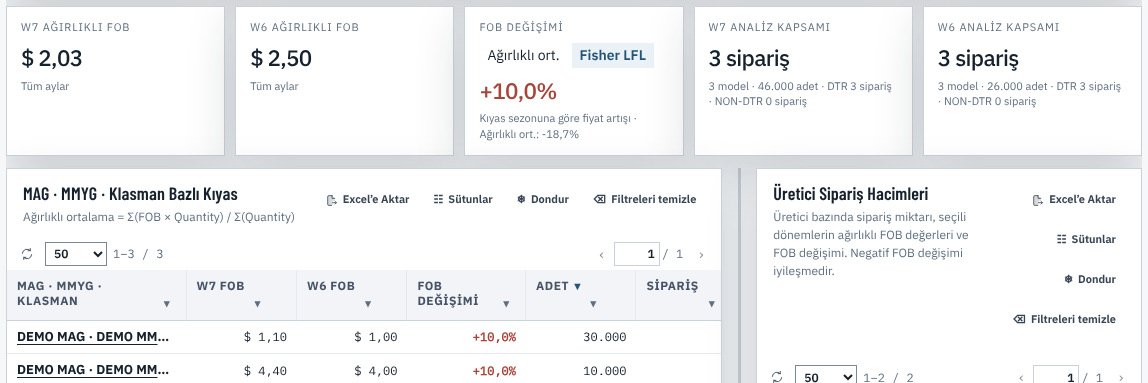
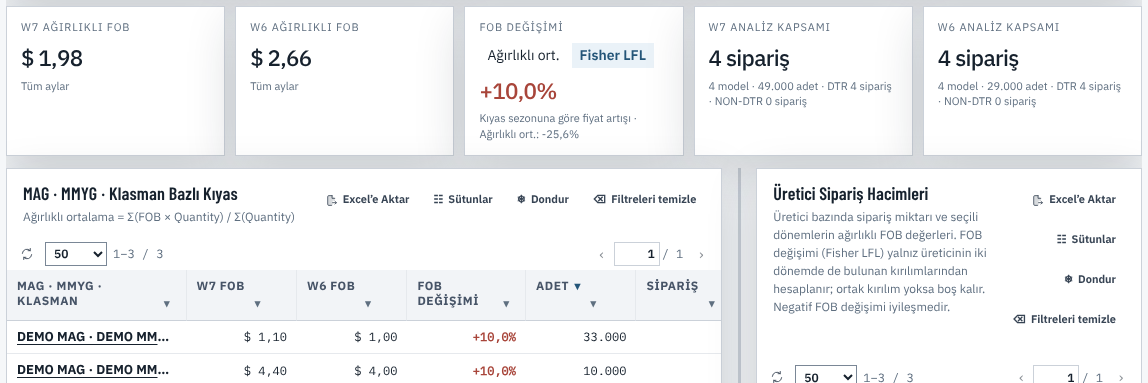
LFL: varsayılan Fisher LFL, like-for-like üretici kıyası, LCW AI hizalaması
- FOB Değişimi varsayılan olarak Fisher LFL; ağırlıklı ortalama seçilebilir ve
  kartta ikincil değer olarak gösterilir.
- comparablePeriodRows anahtarı satır başına bir kez hesaplar ve ortak
  kırılım/para birimi toplamlarını aynı geçişte biriktirir; comparableChanges
  iki yöntemi bu toplamlardan üretir.
- Üretici tablosu FOB değişimi yalnız üreticinin iki dönemde de bulunan
  kırılımlarından, seçili yöntemle hesaplanır; ortak kırılım yoksa boş kalır.
  Toplamlar compute() grup döngüsünde biriktirilir, sonuç analiz başına
  önbelleklenir.
- LCW AI LFL sorgusunun genel değişimi Fisher LFL; ağırlıklı ortalama ayrıca
  raporlanır.

Claude-Session: https://claude.ai/code/session_01HKcjmjkuNhi3D6bhWsNUZU

diff --git a/resources/app/public/lfl.js b/resources/app/public/lfl.js
@@ -187,7 +187,7 @@
     filters:Object.fromEntries(FILTER_DIMS.map(k=>[k,new Set()])),
     periods:{current:{dateField:'inStore'},compare:{dateField:'inStore'}},
     showFabricDetails:false,
-    lflMethod:'weighted',
+    lflMethod:'fisher',
     breakdown:[...window.BLLflCalculationEngine.DEFAULT_BREAKDOWN],
     sort:{key:'qty',dir:-1},analysis:null,
     tableViews:{group:emptyTableView('qty',-1),manufacturer:emptyTableView('currentQty',-1),customCompare:emptyTableView('currentQty',-1),currentDetail:emptyTableView(),compareDetail:emptyTableView()},
@@ -840,20 +840,25 @@
   }
   function metricBetween(current,reference,type='change'){return window.BLLflCalculationEngine.metricBetween(current,reference,type);}
   function comparablePeriodRows(currentRows,referenceRows,groupBy=state.breakdown){return window.BLLflCalculationEngine.comparablePeriodRows(currentRows,referenceRows,groupBy,{rowMeta,groupValue});}
-  /* LFL yöntemi: 'weighted' = ortak kırılımlarda her dönemin kendi adet karmasıyla
-     ağırlıklı ortalama (mevcut); 'fisher' = aynı ortak kırılımlarda karma etkisinden
-     arındırılmış Fisher endeksi (Paasche × Laspeyres geometrik ortalaması). */
-  function normalizeLflMethod(value){return value==='fisher'?'fisher':'weighted';}
+  /* LFL yöntemi: 'fisher' (varsayılan) = ortak kırılımlarda karma etkisinden arındırılmış
+     Fisher endeksi (Paasche × Laspeyres geometrik ortalaması); 'weighted' = aynı ortak
+     kırılımlarda her dönemin kendi adet karmasıyla ağırlıklı ortalama. İki değer de
+     comparablePeriodRows'un tek geçişte biriktirdiği ortak toplamlardan üretilir. */
+  function normalizeLflMethod(value){return value==='weighted'?'weighted':'fisher';}
   function fisherChangeRows(currentRows,referenceRows,groupBy=state.breakdown,type='change'){return window.BLLflCalculationEngine.fisherChange(currentRows,referenceRows,groupBy,{rowMeta,groupValue},type);}
   function lflMethodLabel(method=state.lflMethod){return normalizeLflMethod(method)==='fisher'?(isEn()?'Fisher LFL':'Fisher LFL'):(isEn()?'Weighted avg.':'Ağırlıklı ort.');}
-  /* fisherSource: önceden hesaplanmış Fisher değeri (ana rapor grup özetlerinden) veya
-     satır bazlı hesap için undefined. Satır bazlı Fisher yalnız seçili yöntem Fisher iken
-     çalışır; böylece varsayılan ağırlıklı yöntemde senaryolara ek tarama maliyeti binmez. */
-  function lflChangeSet(comparable,groupBy,comparableCurrent,comparablePrevious,fisherSource){
-    const method=normalizeLflMethod(state.lflMethod),weighted=metricBetween(comparableCurrent,comparablePrevious,'change');
-    const fisher=fisherSource!==undefined?fisherSource:method==='fisher'?fisherChangeRows(comparable.currentRows,comparable.referenceRows,groupBy,'change'):null;
-    const selected=method==='fisher'?fisher:weighted;
-    return {method,weighted,fisher,selected,improvement:method==='fisher'?(fisher==null?null:-fisher):metricBetween(comparableCurrent,comparablePrevious,'improvement')};
+  // Üretici × para birimi × kırılım LFL toplamları (comparablePeriodRows ile aynı anahtar kuralı).
+  function addManufacturerCell(cells,row,group,side){
+    const meta=rowMeta(row);if(!meta.valid||!group)return;const manufacturer=norm(row&&row.manufacturer);if(!manufacturer)return;
+    let byCurrency=cells.get(manufacturer);if(!byCurrency)cells.set(manufacturer,byCurrency=new Map());
+    let byGroup=byCurrency.get(meta.currency);if(!byGroup)byCurrency.set(meta.currency,byGroup=new Map());
+    let cell=byGroup.get(group);if(!cell)byGroup.set(group,cell={currency:meta.currency,cq:0,cw:0,rq:0,rw:0});
+    if(side==='current'){cell.cq+=meta.quantity;cell.cw+=meta.quantity*meta.fob;}else{cell.rq+=meta.quantity;cell.rw+=meta.quantity*meta.fob;}
+  }
+  function sharedManufacturerCells(byCurrency){const out=[];if(byCurrency)byCurrency.forEach(byGroup=>byGroup.forEach(cell=>{if(cell.cq>0&&cell.rq>0)out.push(cell);}));return out;}
+  function lflChangeSet(comparable){
+    const {weighted,fisher}=window.BLLflCalculationEngine.comparableChanges(comparable),method=normalizeLflMethod(state.lflMethod),selected=method==='fisher'?fisher:weighted;
+    return {method,weighted,fisher,selected,improvement:selected==null?null:-selected};
   }
   function comparableMetricBetweenRows(currentRows,referenceRows,groupBy=state.breakdown,type='change'){
     const comparable=comparablePeriodRows(currentRows,referenceRows,groupBy);
@@ -918,7 +923,7 @@
     normalized.currentDateField=currentDateField;normalized.compareDateField=compareDateField;
     const currentRows=filterRows(rows||[],{season:normalized.currentSeason,dateField:currentDateField,periods:currentMonths,...dims}),previousRows=filterRows(rows||[],{season:normalized.compareSeason,dateField:compareDateField,periods:compareMonths,...dims});
     const current=summary(currentRows),previous=summary(previousRows),currentQty=quantityTotal(currentRows),previousQty=quantityTotal(previousRows),comparable=comparablePeriodRows(currentRows,previousRows,state.breakdown),comparableCurrent=summary(comparable.currentRows),comparablePrevious=summary(comparable.referenceRows);
-    return {...normalized,value:normalized.name,currentRows,previousRows,comparableCurrentRows:comparable.currentRows,comparablePreviousRows:comparable.referenceRows,current,previous,currentQty,previousQty,currentOrders:uniqueOrderCount(currentRows),previousOrders:uniqueOrderCount(previousRows),qtyChange:previousQty>0?(currentQty-previousQty)/previousQty*100:null,...(()=>{const set=lflChangeSet(comparable,state.breakdown,comparableCurrent,comparablePrevious);return {lflMethod:set.method,weightedPriceChange:set.weighted,fisherPriceChange:set.fisher,priceChange:set.selected,improvement:set.improvement};})()};
+    return {...normalized,value:normalized.name,currentRows,previousRows,comparableCurrentRows:comparable.currentRows,comparablePreviousRows:comparable.referenceRows,current,previous,currentQty,previousQty,currentOrders:uniqueOrderCount(currentRows),previousOrders:uniqueOrderCount(previousRows),qtyChange:previousQty>0?(currentQty-previousQty)/previousQty*100:null,...(()=>{const set=lflChangeSet(comparable);return {lflMethod:set.method,weightedPriceChange:set.weighted,fisherPriceChange:set.fisher,priceChange:set.selected,improvement:set.improvement};})()};
   }
   function scenarioPeriodLabel(season,months,dateField='inStore'){const selected=(months||[]).map(scenarioMonthLabel),field=scenarioDateField(dateField,'inStore'),fieldPart=field==='inStore'?'':dateFieldLabel(field);return [season,fieldPart,selected.length?selected.join(', '):(isEn()?'All months':'Tüm aylar')].filter(Boolean).join(' · ');}
   function scenarioScopeParts(scenario){const parts=[];SHARED_DIMS.forEach(dim=>{const values=scenario.filters?.[dim]||[];if(values.length)parts.push(`${customCompareLabel(dim)}: ${values.length<=2?values.join(', '):`${values.slice(0,2).join(', ')} +${values.length-2}`}`);});if(parts.length&&scenario.inheritGlobal!==false)parts.unshift(isEn()?'Main filters +':'Ana filtreler +');if(!parts.length)parts.push(scenario.inheritGlobal!==false?(isEn()?'Active main filters':'Aktif ana filtreler'):(isEn()?'All portfolio':'Tüm portföy'));return parts;}
@@ -960,11 +965,11 @@
     const currentRows=filterRows(state.rows,{season:currentSeason,dateField:currentPeriod.dateField,periods:currentMonths,...dims});
     const trialCurrentRows=currentRows.filter(row=>row&&row.isTrial),baselineCurrent=summary(baselineCurrentRows);
     const current=summary(currentRows),previous=summary(compareRows),groupBy=[...state.breakdown],groupMap=new Map();
-    const collectGroups=(rows,side)=>{for(const row of rows){const key=groupValue(row,groupBy);if(!key)continue;let item=groupMap.get(key);if(!item){item={currentRows:[],previousRows:[]};groupMap.set(key,item);}item[side].push(row);}};
+    const manufacturerCells=new Map(),collectGroups=(rows,side)=>{const cellSide=side==='currentRows'?'current':'reference';for(const row of rows){const key=groupValue(row,groupBy);if(!key)continue;let item=groupMap.get(key);if(!item){item={currentRows:[],previousRows:[]};groupMap.set(key,item);}item[side].push(row);addManufacturerCell(manufacturerCells,row,key,cellSide);}};
     collectGroups(currentRows,'currentRows');collectGroups(compareRows,'previousRows');
     const groups=unique([...groupMap.keys()]).map(key=>{const item=groupMap.get(key),c=summary(item.currentRows),p=summary(item.previousRows);return {key,current:c,previous:p,currentRows:item.currentRows,previousRows:item.previousRows,currentAvg:c.avg,previousAvg:p.avg,priceChange:metricBetween(c,p,'change'),improvement:metricBetween(c,p,'improvement'),qty:c.qty,orders:c.orders,rows:c.rows};}).filter(g=>g.current.currencies.length||g.previous.currencies.length);
     const comparable=comparablePeriodRows(currentRows,compareRows,groupBy),baselineComparable=comparablePeriodRows(baselineCurrentRows,compareRows,groupBy),comparableCurrent=summary(comparable.currentRows),comparablePrevious=summary(comparable.referenceRows),baselineComparableCurrent=summary(baselineComparable.currentRows),baselineComparablePrevious=summary(baselineComparable.referenceRows);
-    const result={currentPeriod,comparePeriod,currentSeason,compareSeason,currentDateField:currentPeriod.dateField,compareDateField:comparePeriod.dateField,currentMonths,compareMonths,dims,currentRows,compareRows,baselineCurrentRows,trialCurrentRows,baselineCurrent,current,previous,comparableCurrentRows:comparable.currentRows,comparableCompareRows:comparable.referenceRows,baselinePriceChange:metricBetween(baselineComparableCurrent,baselineComparablePrevious,'change'),...(()=>{const fisher=window.BLLflCalculationEngine.fisherDetailFromSummaries(groupBy.length?groups.map(g=>({current:g.current,reference:g.previous})):[{current,reference:previous}]).change,set=lflChangeSet(comparable,groupBy,comparableCurrent,comparablePrevious,fisher);return {lflMethod:set.method,weightedPriceChange:set.weighted,fisherPriceChange:set.fisher,priceChange:set.selected,improvement:set.improvement};})(),groupBy,groups};
+    const result={currentPeriod,comparePeriod,currentSeason,compareSeason,currentDateField:currentPeriod.dateField,compareDateField:comparePeriod.dateField,currentMonths,compareMonths,dims,currentRows,compareRows,baselineCurrentRows,trialCurrentRows,baselineCurrent,current,previous,comparableCurrentRows:comparable.currentRows,comparableCompareRows:comparable.referenceRows,baselinePriceChange:metricBetween(baselineComparableCurrent,baselineComparablePrevious,'change'),manufacturerCells,...(()=>{const set=lflChangeSet(comparable);return {lflMethod:set.method,weightedPriceChange:set.weighted,fisherPriceChange:set.fisher,priceChange:set.selected,improvement:set.improvement};})(),groupBy,groups};
     lflAnalysisCache.set(cacheKey,result);return result;
   }
   function kpi(label,value,sub,cls=''){return `<div class="lflKpi lflCard"><div class="lflKpiLabel">${esc(label)}</div><div class="lflKpiValue ${cls}">${value}</div><div class="lflKpiSub">${esc(sub)}</div></div>`;}
@@ -1353,28 +1358,37 @@
       return totalFooterByKey(visible,{qty:integer(totalQty),orders:integer(totalOrders)});
     }});
   }
-  function manufacturerVolumes(currentRows,compareRows){
-    const map=new Map();
+  /* precomputedCells: compute() grup döngüsünde biriktirilen üretici LFL toplamları (ek satır taraması yok). */
+  function manufacturerVolumes(currentRows,compareRows,groupBy=state.breakdown,precomputedCells=null){
+    const map=new Map(),dims=Array.isArray(groupBy)?groupBy.filter(Boolean):[],cells=precomputedCells||new Map();
     const collect=(rows,side)=>rows.forEach(row=>{
       const manufacturer=norm(row&&row.manufacturer);if(!manufacturer)return;
       if(!map.has(manufacturer))map.set(manufacturer,{manufacturer,currentQty:0,previousQty:0,currentOrders:new Set(),previousOrders:new Set(),currentRows:[],previousRows:[]});
       const item=map.get(manufacturer),quantity=num(row&&row.quantity);if(quantity>0)item[side+'Qty']+=quantity;
       const key=orderKey(row);if(key)item[side+'Orders'].add(key);item[side+'Rows'].push(row);
+      if(!precomputedCells)addManufacturerCell(cells,row,dims.length?groupValue(row,dims):'__all__',side==='current'?'current':'reference');
     });
     collect(currentRows||[],'current');collect(compareRows||[],'previous');
     const currentTotal=[...map.values()].reduce((sum,item)=>sum+item.currentQty,0),previousTotal=[...map.values()].reduce((sum,item)=>sum+item.previousQty,0);
-    return [...map.values()].map(item=>{const current=summary(item.currentRows),previous=summary(item.previousRows);return {
+    // FOB değişimi, ana rapordaki LFL kuralıyla aynıdır: üreticinin yalnız iki dönemde de
+    // bulunan kırılım/para birimi çiftleri, seçili yöntemle (Fisher / ağırlıklı ort.).
+    return [...map.values()].map(item=>{const current=summary(item.currentRows),previous=summary(item.previousRows),set=lflChangeSet({cells:sharedManufacturerCells(cells.get(item.manufacturer))});return {
       manufacturer:item.manufacturer,currentQty:item.currentQty,previousQty:item.previousQty,
       currentOrders:item.currentOrders.size,previousOrders:item.previousOrders.size,
       currentShare:currentTotal>0?item.currentQty/currentTotal*100:0,previousShare:previousTotal>0?item.previousQty/previousTotal*100:0,
       change:item.previousQty>0?(item.currentQty-item.previousQty)/item.previousQty*100:null,
-      fobChange:metricBetween(current,previous,'change'),current,previous,currentRows:item.currentRows,previousRows:item.previousRows,
+      fobChange:set.selected,weightedFobChange:set.weighted,fisherFobChange:set.fisher,current,previous,currentRows:item.currentRows,previousRows:item.previousRows,
     };}).filter(item=>item.currentQty>0||item.previousQty>0).sort((a,b)=>b.currentQty-a.currentQty||b.previousQty-a.previousQty||a.manufacturer.localeCompare(b.manufacturer,'tr-TR'));
   }
+  const lflManufacturerCache=new WeakMap();
+  function cachedManufacturerVolumes(a){
+    const method=normalizeLflMethod(state.lflMethod),cached=lflManufacturerCache.get(a);if(cached&&cached.method===method)return cached.rows;
+    const rows=manufacturerVolumes(a.currentRows,a.compareRows,a.groupBy,a.manufacturerCells);lflManufacturerCache.set(a,{method,rows});return rows;
+  }
   function renderManufacturerVolumes(a){
-    const rows=manufacturerVolumes(a.currentRows,a.compareRows);
+    const rows=cachedManufacturerVolumes(a);
     $('lflManufacturerVolumeTitle').textContent=isEn()?'Manufacturer Order Volumes':'Üretici Sipariş Hacimleri';
-    $('lflManufacturerVolumeSubtitle').textContent=isEn()?'Order quantities, period weighted FOB values and FOB change by manufacturer. Negative FOB change is an improvement.':'Üretici bazında sipariş miktarı, seçili dönemlerin ağırlıklı FOB değerleri ve FOB değişimi. Negatif FOB değişimi iyileşmedir.';
+    $('lflManufacturerVolumeSubtitle').textContent=isEn()?`Order quantities and period weighted FOB values by manufacturer. FOB change (${lflMethodLabel()}) uses only the manufacturer's breakdowns present in both periods and stays blank when there are none. Negative FOB change is an improvement.`:`Üretici bazında sipariş miktarı ve seçili dönemlerin ağırlıklı FOB değerleri. FOB değişimi (${lflMethodLabel()}) yalnız üreticinin iki dönemde de bulunan kırılımlarından hesaplanır; ortak kırılım yoksa boş kalır. Negatif FOB değişimi iyileşmedir.`;
     const columns=[
       {key:'manufacturer',label:isEn()?'Manufacturer':'Üretici',value:r=>r.manufacturer,type:'text',weight:18},
       {key:'currentQty',label:comparisonColumnHeader(a.currentPeriod,isEn()?'Units':'Adet'),value:r=>r.currentQty,display:row=>integer(row.currentQty),type:'number',integer:true,cls:'num',weight:10},

diff --git a/resources/app/public/lfl-calculation-engine.js b/resources/app/public/lfl-calculation-engine.js
@@ -28,18 +28,41 @@
   }
   function comparablePeriodRows(currentRows,referenceRows,groupBy=[],helpers){
     const {rowMeta,groupValue}=helpers;
-    const dims=Array.isArray(groupBy)?groupBy.filter(Boolean):[],pairKey=row=>{
+    const dims=Array.isArray(groupBy)?groupBy.filter(Boolean):[],cells=new Map();
+    // Anahtar satır başına bir kez hesaplanır; aynı geçişte kırılım/para birimi toplamları
+    // (ağırlıklı ortalama ve Fisher için) biriktirilir, ek satır taraması gerekmez.
+    const keyed=(rows,side)=>(rows||[]).map(row=>{
       const meta=rowMeta(row);if(!meta.valid)return '';
-      const group=dims.length?groupValue(row,dims):'__all__';
-      return group?`${group}\u0001${meta.currency}`:'';
-    };
-    const currentKeys=new Set((currentRows||[]).map(pairKey).filter(Boolean)),referenceKeys=new Set((referenceRows||[]).map(pairKey).filter(Boolean));
-    const sharedKeys=new Set([...currentKeys].filter(key=>referenceKeys.has(key)));
+      const group=dims.length?groupValue(row,dims):'__all__';if(!group)return '';
+      const key=`${group}\u0001${meta.currency}`;let cell=cells.get(key);
+      if(!cell)cells.set(key,cell={currency:meta.currency,cq:0,cw:0,rq:0,rw:0});
+      if(side==='current'){cell.cq+=meta.quantity;cell.cw+=meta.quantity*meta.fob;}else{cell.rq+=meta.quantity;cell.rw+=meta.quantity*meta.fob;}
+      return key;
+    });
+    const currentKeys=keyed(currentRows,'current'),referenceKeys=keyed(referenceRows,'reference');
+    const referenceSet=new Set(referenceKeys.filter(Boolean)),sharedKeys=new Set(currentKeys.filter(key=>key&&referenceSet.has(key)));
     return {
-      currentRows:(currentRows||[]).filter(row=>sharedKeys.has(pairKey(row))),
-      referenceRows:(referenceRows||[]).filter(row=>sharedKeys.has(pairKey(row))),
+      currentRows:(currentRows||[]).filter((row,index)=>sharedKeys.has(currentKeys[index])),
+      referenceRows:(referenceRows||[]).filter((row,index)=>sharedKeys.has(referenceKeys[index])),
       sharedKeys,
+      cells:[...sharedKeys].map(key=>cells.get(key)),
     };
+  }
+  /* Ortak çiftlerin toplamlarından iki LFL yöntemini birlikte üretir.
+     weighted: metricBetween(summary(ortak güncel), summary(ortak kıyas)) ile aynı sonuç.
+     fisher: fisherDetail ile aynı sonuç. */
+  function comparableChanges(comparable){
+    const buckets=new Map(),totals={};
+    for(const cell of (comparable&&comparable.cells)||[]){
+      let list=buckets.get(cell.currency);if(!list)buckets.set(cell.currency,list=[]);list.push(cell);
+      const t=totals[cell.currency]||(totals[cell.currency]={cq:0,cw:0,rq:0,rw:0});t.cq+=cell.cq;t.cw+=cell.cw;t.rq+=cell.rq;t.rw+=cell.rw;
+    }
+    let weightedSum=0,weightedQty=0;
+    for(const currency of ['TRY','USD']){
+      const t=totals[currency];if(!t||!(t.cq>0)||!(t.rq>0))continue;const c=t.cw/t.cq,r=t.rw/t.rq;if(!(c>0)||!(r>0))continue;
+      weightedSum+=(c-r)/r*100*t.cq;weightedQty+=t.cq;
+    }
+    return {weighted:weightedQty?weightedSum/weightedQty:null,fisher:fisherFinalize(buckets).change};
   }
   /* Fisher LFL: ortak kırılım/para birimi çiftlerinde karma etkisinden arındırılmış
      fiyat değişimi. Paasche (güncel adet karması) ve Laspeyres (kıyas adet karması)
@@ -97,9 +120,9 @@
       ? 'LFL = Like-for-Like. Buyer Log compares quantity-weighted FOB between a current and reference period, only for breakdown/currency pairs present in both periods. This is a price comparison, not retail sales growth. Use the deterministic LFL query; do not ask the user to define LFL.'
       : 'LFL = Like-for-Like. Buyer Log güncel ve kıyas dönemlerinin adet ağırlıklı FOB fiyatını, yalnız her iki dönemde de bulunan kırılım/para birimi çiftlerinde karşılaştırır. Satış büyümesi analizi değildir. Deterministik LFL sorgusunu kullan; kullanıcıdan LFL tanımı isteme.',
       'Default breakdown: '+DEFAULT_BREAKDOWN.join(' + '),
-      lang==='en'?'Valid rows: FOB > 0 and quantity > 0. Turkey uses TRY, other countries USD; currencies are never averaged together. Change = (current/reference - 1)*100; improvement has the opposite sign. Overall change weights currency changes by current comparable quantity. Default periods: latest season versus previous season with the same prefix, using Buyer Log season rules. Missing comparison season requires clarification; never compare the same season to itself.'
-        :'Geçerli kayıt: FOB > 0 ve adet > 0. Türkiye TRY, diğer ülkeler USD; para birimleri birlikte ortalanmaz. Değişim = (güncel/kıyas - 1)*100; iyileşme ters işaretlidir. Genel değişim para birimi değişimlerini güncel karşılaştırılabilir adetle ağırlıklandırır. Varsayılan dönem: Buyer Log sezon kurallarına göre son sezon ve aynı önekli önceki sezon. Kıyas sezonu yoksa dönem sorulur; aynı sezon kendisiyle karşılaştırılmaz.'
+      lang==='en'?'Valid rows: FOB > 0 and quantity > 0. Turkey uses TRY, other countries USD; currencies are never averaged together. Change = (current/reference - 1)*100; improvement has the opposite sign. The overall change is Fisher LFL by default (geometric mean of current-mix and reference-mix price indices over shared pairs, so product-mix shifts do not flip the sign); the weighted average (each period with its own quantity mix) is reported as well. Currency changes are combined by current comparable quantity. Default periods: latest season versus previous season with the same prefix, using Buyer Log season rules. Missing comparison season requires clarification; never compare the same season to itself.'
+        :'Geçerli kayıt: FOB > 0 ve adet > 0. Türkiye TRY, diğer ülkeler USD; para birimleri birlikte ortalanmaz. Değişim = (güncel/kıyas - 1)*100; iyileşme ters işaretlidir. Genel değişim varsayılan olarak Fisher LFL ile hesaplanır (ortak çiftlerde güncel ve kıyas adet karmalı fiyat endekslerinin geometrik ortalaması; ürün karması kayması işareti çeviremez); her dönemin kendi adet karmasıyla ağırlıklı ortalama da raporlanır. Para birimi değişimleri güncel karşılaştırılabilir adetle birleştirilir. Varsayılan dönem: Buyer Log sezon kurallarına göre son sezon ve aynı önekli önceki sezon. Kıyas sezonu yoksa dönem sorulur; aynı sezon kendisiyle karşılaştırılmaz.'
     ].join('\n');
   }
-  return {DEFAULT_BREAKDOWN,countryKey,isTurkeyCountry,currencyForRow,summary,metricBetween,comparablePeriodRows,fisherDetail,fisherDetailFromSummaries,fisherChange,aiKnowledge};
+  return {DEFAULT_BREAKDOWN,countryKey,isTurkeyCountry,currencyForRow,summary,metricBetween,comparablePeriodRows,comparableChanges,fisherDetail,fisherDetailFromSummaries,fisherChange,aiKnowledge};
 });

diff --git a/resources/app/scripts/lfl-fisher-method-screenshot.js b/resources/app/scripts/lfl-fisher-method-screenshot.js
@@ -1,8 +1,10 @@
 'use strict';
-// Gerçek Buyer Log (anonim demo veri) LFL Analizi'nde FOB Değişimi kartındaki
-// "Ağırlıklı ort. / Fisher LFL" seçimini doğrular ve sürüm notu görselini üretir.
-// Demo veride her kalemin fiyatı %10 artar, güncel dönemde adet ucuz kaleme kayar:
-// ağırlıklı ortalama karma etkisiyle düşüş, Fisher LFL ise +%10 gösterir.
+// Gerçek Buyer Log (anonim demo veri) LFL Analizi'nde:
+//  1) FOB Değişimi kartının varsayılan olarak Fisher LFL açıldığını, ağırlıklı ortalamanın
+//     alt satırda gösterildiğini ve yöntem seçiminin çalıştığını,
+//  2) Üretici tablosundaki FOB değişiminin yalnız ortak kırılımlardan hesaplandığını ve
+//     ortak kırılımı olmayan üreticide boş kaldığını doğrular; sürüm notu görsellerini üretir.
+// Demo veride her kalemin fiyatı %10 artar, güncel dönemde adet ucuz kaleme kayar.
 const fs = require('node:fs'), path = require('node:path'), assert = require('node:assert/strict');
 const { start } = require('./lib/client-performance-app');
 const order = (code, season, inStore, classification, manufacturer, fob, quantity) => ({
@@ -11,10 +13,16 @@ const order = (code, season, inStore, classification, manufacturer, fob, quantit
 });
 const rows = [
   order('D1', 'W6', '2026-07-06', 'DEMO BODY', 'DEMO SUPPLIER A', 1.00, 10000), order('D2', 'W6', '2026-07-13', 'DEMO SWEAT', 'DEMO SUPPLIER B', 4.00, 10000),
-  order('D3', 'W6', '2026-08-03', 'DEMO PANT', 'DEMO SUPPLIER A', 2.50, 6000),
+  order('D3', 'W6', '2026-08-03', 'DEMO PANT', 'DEMO SUPPLIER A', 2.50, 6000), order('D7', 'W6', '2026-08-10', 'DEMO SWEAT', 'DEMO SUPPLIER C', 4.00, 3000),
   order('D4', 'W7', '2027-07-05', 'DEMO BODY', 'DEMO SUPPLIER A', 1.10, 30000), order('D5', 'W7', '2027-07-12', 'DEMO SWEAT', 'DEMO SUPPLIER B', 4.40, 10000),
-  order('D6', 'W7', '2027-08-02', 'DEMO PANT', 'DEMO SUPPLIER A', 2.75, 6000),
+  order('D6', 'W7', '2027-08-02', 'DEMO PANT', 'DEMO SUPPLIER A', 2.75, 6000), order('D8', 'W7', '2027-08-09', 'DEMO BODY', 'DEMO SUPPLIER C', 1.10, 3000),
 ];
+const clipOf = async (page, selector, minHeight, viewportWidth = 1400) => {
+  await page.$eval(selector, el => el.scrollIntoView({ block: 'center' })); await page.waitForTimeout(400);
+  const box = await page.$eval(selector, el => { const r = el.getBoundingClientRect(); return { x: r.x, y: r.y, width: r.width, height: r.height }; });
+  const x = Math.max(0, box.x - 6), y = Math.max(0, box.y - 6), width = Math.min(viewportWidth - x, Math.max(900, Math.ceil(box.width) + 12));
+  return { x, y, width, height: Math.max(minHeight, Math.ceil(width / 3), Math.min(Math.ceil(box.height) + 12, Math.floor(width / 1.25))) };
+};
 (async () => {
   const app = await start();
   try {
@@ -24,23 +32,33 @@ const rows = [
     await page.click('button[data-tab="lfl"]');
     await page.waitForSelector('#lflKpis [data-lfl-method="fisher"]', { timeout: 60000 });
     const read = () => page.$eval('#lflKpis .lflKpi--method', el => ({ value: el.querySelector('.lflKpiValue').textContent, sub: el.querySelector('.lflKpiSub').textContent, pressed: el.querySelector('[aria-pressed="true"]').dataset.lflMethod }));
-    const weighted = await read();
-    await page.click('#lflKpis [data-lfl-method="fisher"]');
-    await page.waitForFunction(() => document.querySelector('#lflKpis [data-lfl-method="fisher"]')?.getAttribute('aria-pressed') === 'true');
-    const fisher = await read();
-    assert.equal(weighted.pressed, 'weighted');
-    assert.equal(fisher.pressed, 'fisher');
+    const manufacturers = () => page.$$eval('#lflManufacturerVolumeTable tbody tr', trs => trs.map(tr => [...tr.cells].map(td => td.textContent.trim())));
+    const fisher = await read(), fisherMfr = await manufacturers();
+    assert.equal(fisher.pressed, 'fisher', 'varsayılan yöntem Fisher LFL olmalı');
     assert.match(fisher.value, /10/);
     assert.match(fisher.sub, /Ağırlıklı ort\./); // i18n-ignore
-    await page.mouse.move(5, 5); await page.waitForTimeout(500);
-    await page.$eval('#lflKpis', el => el.scrollIntoView({ block: 'center' })); await page.waitForTimeout(400);
-    const box = await page.$eval('#lflKpis', el => { const r = el.getBoundingClientRect(); return { x: r.x, y: r.y, width: r.width, height: r.height }; });
-    const screenshot = path.join(__dirname, '../public/release-notes/next-assets/lfl-fisher-method.png');
-    fs.mkdirSync(path.dirname(screenshot), { recursive: true });
-    const x = Math.max(0, box.x - 6), y = Math.max(0, box.y - 6), width = Math.min(1400 - x, Math.ceil(box.width) + 12);
-    const height = Math.max(380, Math.ceil(width / 3));
-    await page.screenshot({ path: screenshot, clip: { x, y, width, height } });
+    const rowOf = (table, name) => table.find(cells => cells[0].startsWith(name));
+    assert.match(rowOf(fisherMfr, 'DEMO SUPPLIER A').at(-1), /10/);
+    assert.equal(rowOf(fisherMfr, 'DEMO SUPPLIER C').at(-1), '');
+    // Ekran görüntüleri: varsayılan (Fisher) görünüm.
+    const dir = path.join(__dirname, '../public/release-notes/next-assets');
+    fs.mkdirSync(dir, { recursive: true });
+    await page.mouse.move(5, 5);
+    const kpiShot = path.join(dir, 'lfl-fisher-method.png');
+    await page.screenshot({ path: kpiShot, clip: await clipOf(page, '#lflKpis', 380) });
+    const mfrShot = path.join(dir, 'lfl-manufacturer-like-for-like.png');
+    // Üretici kartı geniş ekranda tüm sütunlarıyla görünür.
+    await page.setViewportSize({ width: 2800, height: 1000 }); await page.waitForTimeout(600);
+    await page.screenshot({ path: mfrShot, clip: await clipOf(page, '.lflManufacturerVolumeCard', 380, 2800) });
+    await page.setViewportSize({ width: 1400, height: 900 }); await page.waitForTimeout(300);
+    // Yöntem seçimi: ağırlıklı ortalamaya geçiş.
+    await page.click('#lflKpis [data-lfl-method="weighted"]');
+    await page.waitForFunction(() => document.querySelector('#lflKpis [data-lfl-method="weighted"]')?.getAttribute('aria-pressed') === 'true');
+    const weighted = await read(), weightedMfr = await manufacturers();
+    assert.match(weighted.sub, /Fisher LFL: \+10/);
+    assert.notEqual(rowOf(weightedMfr, 'DEMO SUPPLIER A').at(-1), rowOf(fisherMfr, 'DEMO SUPPLIER A').at(-1));
+    await page.click('#lflKpis [data-lfl-method="fisher"]');
     assert.deepEqual(app.errors, []);
-    console.log(JSON.stringify({ screenshot, weighted, fisher }));
+    console.log(JSON.stringify({ kpiShot, mfrShot, fisher, weighted, fisherMfr, weightedMfr }));
   } finally { await app.close(); }
 })().catch(error => { console.error(error); process.exitCode = 1; });

diff --git a/resources/app/tests/lfl-fisher-method.test.js b/resources/app/tests/lfl-fisher-method.test.js
@@ -67,10 +67,11 @@ test('Fisher detail reports Paasche and Laspeyres and never mixes currencies', (
   assert.ok(Math.abs(detail.change - expected) < 1e-9);
 });
 
-test('KPI shows the selected method and the alternative value; default stays weighted average', () => {
+test('KPI shows the selected method and the alternative value; default is Fisher LFL', () => {
   const api = loadApi();
-  assert.equal(api.normalizeLflMethod(undefined), 'weighted');
-  assert.equal(api.normalizeLflMethod('fisher'), 'fisher');
+  assert.equal(api.normalizeLflMethod(undefined), 'fisher');
+  assert.equal(api.normalizeLflMethod('weighted'), 'weighted');
+  assert.equal(api.normalizeLflMethod('bogus'), 'fisher');
   const a = { lflMethod: 'weighted', priceChange: -23, weightedPriceChange: -23, fisherPriceChange: 10 };
   const html = api.fobChangeKpi(a);
   assert.match(html, /data-lfl-method="weighted" aria-pressed="true"/);
@@ -87,9 +88,9 @@ test('method preference is persisted, part of the scenario cache key and registe
   assert.match(LFL, /lflMethod:normalizeLflMethod\(state\.lflMethod\),\n\s*\}\);/);
   // Regresyon: ana analiz önbelleği yöntemi anahtara katmazsa seçim değişince eski sonuç döner.
   const api = loadApi(), period = { season: 'W7', dateField: 'inStore', selectedPeriods: new Set() };
-  const weightedKey = api.lflAnalysisCacheKey(period, period, {});
-  api.setLflMethodForTest('fisher');
-  assert.notEqual(api.lflAnalysisCacheKey(period, period, {}), weightedKey);
+  const fisherKey = api.lflAnalysisCacheKey(period, period, {});
+  api.setLflMethodForTest('weighted');
+  assert.notEqual(api.lflAnalysisCacheKey(period, period, {}), fisherKey);
   assert.match(CSS, /\.lflMethodSeg,\.cpaSeg\) > button:is\(/);
   assert.match(MOTION, /\.lflMethodSeg'/);
 });
@@ -98,14 +99,15 @@ test('independent scenarios follow the selected LFL method', () => {
   const api = loadApi();
   const scenario = { name: 'S', currentSeason: 'W7', compareSeason: 'W6', currentMonths: [], compareMonths: [], filters: {}, inheritGlobal: false };
   const rows = [...current, ...previous];
-  const weighted = api.scenarioComparisonResult(rows, scenario, {});
-  assert.equal(weighted.lflMethod, 'weighted');
-  assert.ok(Math.abs(weighted.priceChange - weighted.weightedPriceChange) < 1e-12);
-  api.setLflMethodForTest('fisher');
   const fisher = api.scenarioComparisonResult(rows, scenario, {});
   assert.equal(fisher.lflMethod, 'fisher');
   assert.ok(Math.abs(fisher.priceChange - 10) < 1e-9, `fisher ${fisher.priceChange}`);
   assert.ok(Math.abs(fisher.improvement + 10) < 1e-9);
+  api.setLflMethodForTest('weighted');
+  const weighted = api.scenarioComparisonResult(rows, scenario, {});
+  assert.equal(weighted.lflMethod, 'weighted');
+  assert.ok(Math.abs(weighted.priceChange - ((1.925 / 2.5 - 1) * 100)) < 1e-9);
+  assert.ok(Math.abs(weighted.fisherPriceChange - 10) < 1e-9);
 });
 
 test('group-summary Fisher (main report path) equals the row-based Fisher', () => {
@@ -119,7 +121,44 @@ test('group-summary Fisher (main report path) equals the row-based Fisher', () =
   assert.deepEqual(Object.keys(fromSummaries.byCurrency).sort(), ['TRY', 'USD']);
 });
 
-test('main analysis feeds Fisher from group summaries without an extra row scan', () => {
-  assert.match(LFL, /fisherDetailFromSummaries\(groupBy\.length\?groups\.map\(g=>\(\{current:g\.current,reference:g\.previous\}\)\)/);
-  assert.match(LFL, /method==='fisher'\?fisherChangeRows\(/);
+test('single-pass comparable totals match summary-based weighted and row-based Fisher', () => {
+  const helpers = { rowMeta: r => ({ valid: r.fob > 0 && r.quantity > 0, fob: r.fob, quantity: r.quantity, currency: engine.currencyForRow(r), order: r.orderCode, model: r.modelName }), groupValue: (r, dims) => dims.map(d => r[d]).join('|'), dtrTypeForRow: () => 'DTR' };
+  const cur = [...current, row('t1', 'BODY', 22, 100, 'W7', 'TURKIYE'), row('z', 'BODY', 0, 100, 'W7')];
+  const ref = [...previous, row('t3', 'BODY', 20, 300, 'W6', 'TURKIYE')];
+  const comparable = engine.comparablePeriodRows(cur, ref, DIMS, helpers);
+  assert.deepEqual(comparable.currentRows.map(r => r.id), ['c1', 'c2', 't1']);
+  const both = engine.comparableChanges(comparable);
+  const weighted = engine.metricBetween(engine.summary(comparable.currentRows, helpers), engine.summary(comparable.referenceRows, helpers));
+  assert.ok(Math.abs(both.weighted - weighted) < 1e-9);
+  assert.ok(Math.abs(both.fisher - engine.fisherDetail(cur, ref, DIMS, helpers).change) < 1e-9);
+});
+
+test('manufacturer FOB change follows the LFL rule: shared breakdowns only, selected method, blank otherwise', () => {
+  const api = loadApi();
+  const mfr = (r, m) => ({ ...r, manufacturer: m });
+  const cur = [mfr(current[0], 'MIX'), mfr(current[1], 'MIX'), mfr(row('n1', 'NEW', 1, 500, 'W7'), 'NO-SHARED')];
+  const ref = [mfr(previous[0], 'MIX'), mfr(previous[1], 'MIX'), mfr(row('n2', 'OLD', 9, 500, 'W6'), 'NO-SHARED')];
+  const byName = rows => Object.fromEntries(rows.map(r => [r.manufacturer, r]));
+  const fisher = byName(api.manufacturerVolumes(cur, ref, DIMS));
+  assert.ok(Math.abs(fisher.MIX.fobChange - 10) < 1e-9);
+  assert.ok(Math.abs(fisher.MIX.weightedFobChange - ((1.925 / 2.5 - 1) * 100)) < 1e-9);
+  assert.equal(fisher['NO-SHARED'].fobChange, null);
+  api.setLflMethodForTest('weighted');
+  const weighted = byName(api.manufacturerVolumes(cur, ref, DIMS));
+  assert.ok(Math.abs(weighted.MIX.fobChange - ((1.925 / 2.5 - 1) * 100)) < 1e-9);
+  assert.equal(weighted['NO-SHARED'].fobChange, null);
+});
+
+test('LCW AI LFL query reports Fisher LFL as overall change and keeps the weighted average', () => {
+  const Q = require('../public/lcwai-data-query');
+  const rec = (season, classification, quantity, fob) => ({ season, mag: 'CU4E', mmyg: 'KIDS', classification, country: 'CHINA', manufacturer: 'Alpha', quantity, fob });
+  const data = Q.datasetFromRecords({ id: 'lfl', module: 'lfl', label: 'lfl', rows: [
+    rec('S6', 'Body', 100, 1), rec('S6', 'Sweat', 100, 4), rec('S7', 'Body', 300, 1.1), rec('S7', 'Sweat', 100, 4.4),
+  ] });
+  const norm = Q.normalizeSpec({ dataset: 'lfl', comparison: { type: 'lfl' } }, [data], { request: 'LFL analizi' });
+  assert.equal(norm.ok, true, norm.errors.join());
+  const r = Q.execute(norm.spec, data, { reference: norm.reference });
+  assert.ok(Math.abs(r.comparisonStats.change - 10) < 1e-9, `change ${r.comparisonStats.change}`);
+  assert.ok(Math.abs(r.comparisonStats.weightedChange - ((1.925 / 2.5 - 1) * 100)) < 1e-9);
+  assert.match(Q.describe(norm.spec, data, r).join('\n'), /Fisher LFL/);
 });

diff --git a/resources/app/public/lcwai-data-query.js b/resources/app/public/lcwai-data-query.js
@@ -1042,7 +1042,7 @@
       lines.push(`${T(lang, 'Güncel dönem', 'Current period')}: ${spec.comparison.currentFilters.map(f => filterText(dataset, f, lang)).join(' · ')}`);
       lines.push(`${T(lang, 'Kıyas kaynağı', 'Reference source')}: ${spec.comparison.referenceDataset}; ${spec.comparison.referenceFilters.map(f => filterText(dataset, f, lang)).join(' · ')}`);
       const s = result && result.comparisonStats;
-      if (s) lines.push(T(lang, `Karşılaştırılabilir kayıt: güncel ${s.currentComparable}/${result.matched}, kıyas ${s.referenceComparable}/${s.referenceMatched}. Genel FOB değişimi: ${s.change == null ? '—' : n.format(s.change) + '%'}. Ortak çift yoksa fiyat değişimi hesaplanmaz.`, `Comparable records: current ${s.currentComparable}/${result.matched}, reference ${s.referenceComparable}/${s.referenceMatched}. Overall FOB change: ${s.change == null ? '—' : n.format(s.change) + '%'}. Without shared pairs, price change is unavailable.`));
+      if (s) lines.push(T(lang, `Karşılaştırılabilir kayıt: güncel ${s.currentComparable}/${result.matched}, kıyas ${s.referenceComparable}/${s.referenceMatched}. Genel FOB değişimi (Fisher LFL, ürün karmasından arındırılmış): ${s.change == null ? '—' : n.format(s.change) + '%'}; ağırlıklı ortalama: ${s.weightedChange == null ? '—' : n.format(s.weightedChange) + '%'}. Ortak çift yoksa fiyat değişimi hesaplanmaz.`, `Comparable records: current ${s.currentComparable}/${result.matched}, reference ${s.referenceComparable}/${s.referenceMatched}. Overall FOB change (Fisher LFL, mix-neutral): ${s.change == null ? '—' : n.format(s.change) + '%'}; weighted average: ${s.weightedChange == null ? '—' : n.format(s.weightedChange) + '%'}. Without shared pairs, price change is unavailable.`));
     }
     return lines;
   }

diff --git a/resources/app/public/lcwai-lfl-query.js b/resources/app/public/lcwai-lfl-query.js
@@ -80,8 +80,10 @@
     }
     result.rows.sort((a,b)=>b[c.matchBy.length+1]-a[c.matchBy.length+1]);
     yield;
-    const cur=LFL.summary(paired.currentRows,helpers),prev=LFL.summary(paired.referenceRows,helpers);
-    result.comparisonStats={referenceMatched:referenceMatched.length,currentComparable:paired.currentRows.length,referenceComparable:paired.referenceRows.length,change:LFL.metricBetween(cur,prev),improvement:LFL.metricBetween(cur,prev,'improvement')};
+    // Genel değişim LFL modülünün varsayılanıyla aynıdır: Fisher LFL (ürün karmasından arındırılmış);
+    // her dönemin kendi adet karmasıyla ağırlıklı ortalama ayrıca raporlanır.
+    const overall=LFL.comparableChanges(paired);
+    result.comparisonStats={referenceMatched:referenceMatched.length,currentComparable:paired.currentRows.length,referenceComparable:paired.referenceRows.length,change:overall.fisher,improvement:overall.fisher==null?null:-overall.fisher,weightedChange:overall.weighted};
     if(spec.limit)result.rows=result.rows.slice(0,spec.limit);
     return result;
   }

diff --git a/resources/app/tests/lcwai-analysis-queries.test.js b/resources/app/tests/lcwai-analysis-queries.test.js
@@ -17,7 +17,7 @@ test('LFL known without asking for its definition; same engine, default same-pre
   const usd=r.rows.find(row=>row.includes('USD')),tryRow=r.rows.find(row=>row.includes('TRY'));
   assert.deepEqual(usd.slice(3),['USD',300,100,3,4,-25,25]);
   assert.deepEqual(tryRow.slice(3),['TRY',100,200,110,100,10,-10]);
-  assert.equal(r.comparisonStats.currentComparable,2);assert.equal(r.comparisonStats.change,-16.25);
+  assert.equal(r.comparisonStats.currentComparable,2);assert.ok(Math.abs(r.comparisonStats.change+16.25)<1e-9,String(r.comparisonStats.change));assert.equal(r.comparisonStats.weightedChange,-16.25);
   assert.match(Q.describe(norm.spec,data,r).join('\n'),/LFL: Like-for-Like/);
   assert.equal(Q.toWorkbook(r).sheets[0].rows.length,2);
   assert.match(K.moduleKnowledge('lfl','en'),/LFL = Like-for-Like/);
